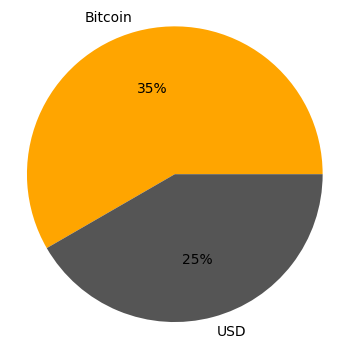
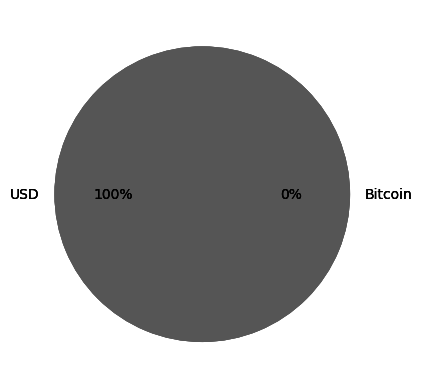
Small Edits

diff --git a/market/templates/review.html b/market/templates/review.html
@@ -30,28 +30,30 @@
     
     <div id="user_reviews" style="display: none;" class="container table-responsive-sm">
       {% endif %}
-      <h2>Reviews</h2>            
-      <table class="table table-bordered table-sm">
-          <thead>
-              <tr>
-              <th>Title</th>
-              <th>Sentiment</th>
-              <th>Content</th>
-              <!-- <th>Date</th> -->
-              </tr>
-          </thead>
-          <tbody>
-              {% for review in reviews %}
-              <tr>
-              <td>{{ review.review_title }}</td>
-              <td>{{ review.sentiment }}</td>
-              <td>{{ review.review_body }}</td>
-              <!-- <td>{{ review.creation_date }}</td> -->
-              </tr>
-              {% endfor %}
-              
-          </tbody>
-      </table>
+      <div class="container table-responsive-sm">
+        <h2  align="center">Reviews</h2>            
+        <table class="table table-bordered table-sm"  align="center">
+            <thead>
+                <tr>
+                <th>Title</th>
+                <th>Sentiment</th>
+                <th>Content</th>
+                <!-- <th>Date</th> -->
+                </tr>
+            </thead>
+            <tbody>
+                {% for review in reviews %}
+                <tr>
+                <td>{{ review.review_title }}</td>
+                <td>{{ review.sentiment }}</td>
+                <td>{{ review.review_body }}</td>
+                <!-- <td>{{ review.creation_date }}</td> -->
+                </tr>
+                {% endfor %}
+                
+            </tbody>
+        </table>
+      </div>
   
     </div>
 </section>

diff --git a/market/templates/register.html b/market/templates/register.html
@@ -42,6 +42,7 @@
     <div align="center">
       <span class="txt2 p-b-10">Already have an account?</span><br>
       <a class="default-link" href="{% url 'login' %}" class="txt3 bo1 hov1">Login now</a>
+      <p>.</p>
     </div>
 
   </section>

diff --git a/market/views.py b/market/views.py
@@ -32,8 +32,12 @@ def index(request):
         userid = request.user.id
         details = refreshwallet(request)
         userdetails = details.get("userdetails")
+        fiatdetails = details.get("fiatdetails")
+        btcdetails = details.get("btcdetails")
+        
         # Asset pie chart
-        y = np.array([35, 25])
+        y = np.array([float(btcdetails.balance_usd), float(fiatdetails.balance)])
+        # y = np.array([0, 100])
         color = ("#ffa500","#555")
         total = sum(y)
         mylabels = ["Bitcoin", "USD"]
@@ -41,7 +45,7 @@ def index(request):
         plt.pie(y, labels=mylabels,colors=color, autopct=lambda p: '{:.0f}%'.format(p * total / 100))
         # plt.show() 
         # plt.savefig('market/static/img/assets.png' ,bbox_inches='tight')
-        plt.savefig('market/static/img/assets.png' ,bbox_inches='tight', pad_inches=-0.1)
+        plt.savefig('market/static/img/assets.png' ,bbox_inches='tight')
         # sys.stdout.flush()
 
 
